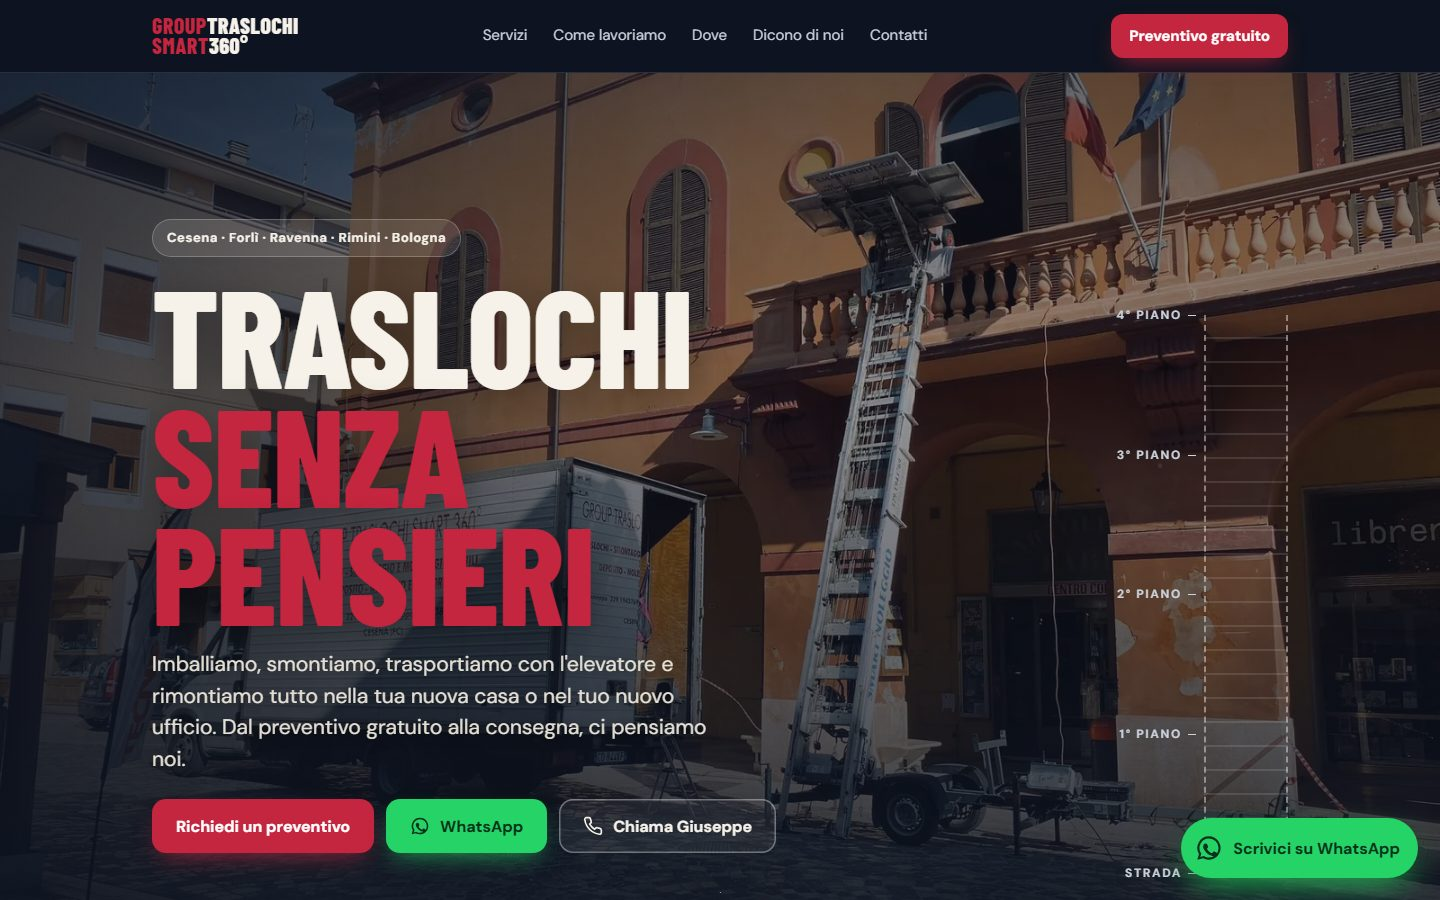
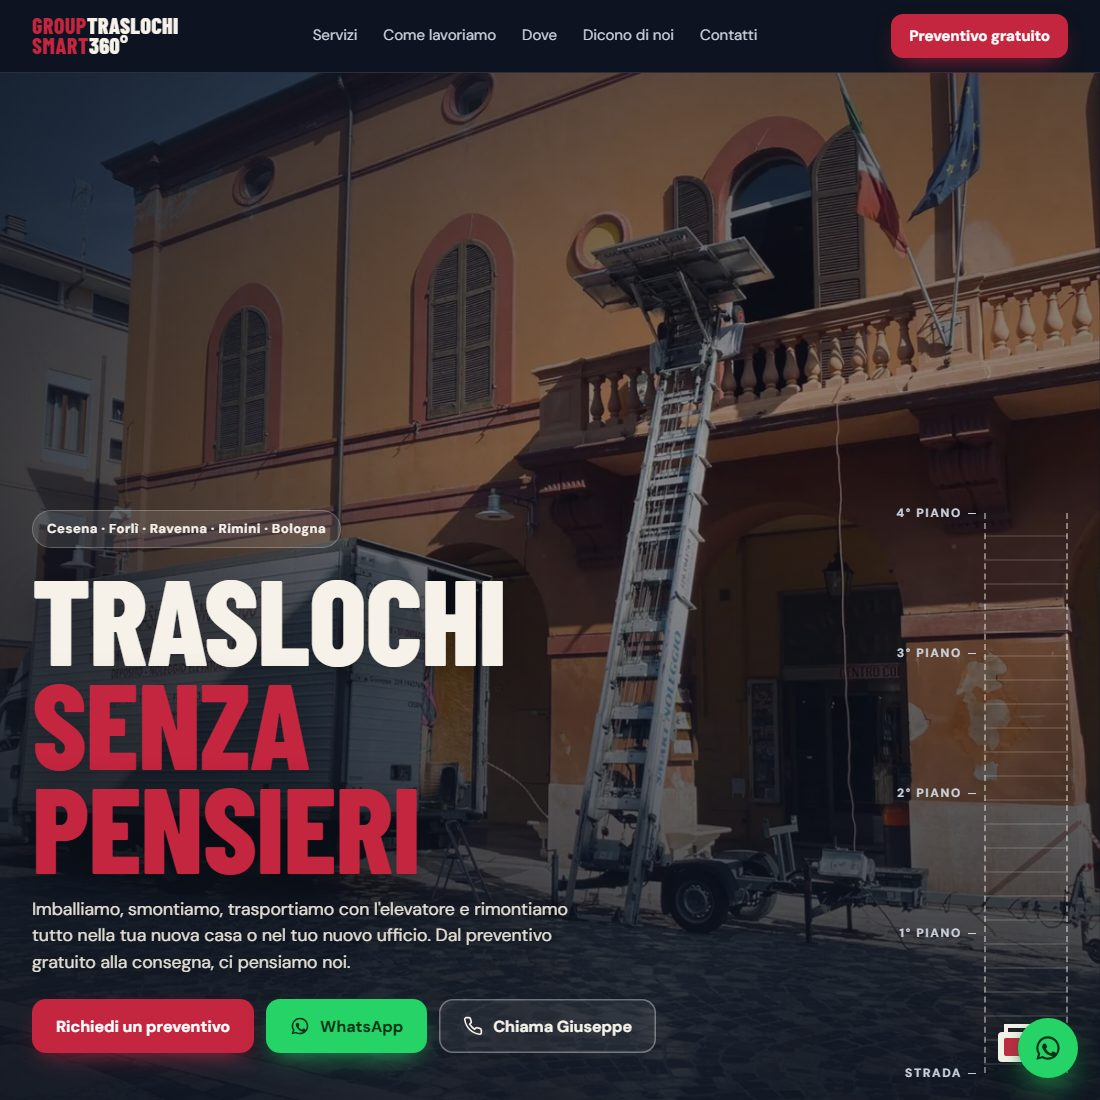
Smart360 card: shorter title and copy, square screenshot so it fits small laptop screens

diff --git a/src/data.ts b/src/data.ts
@@ -210,9 +210,9 @@ export const projects: Project[] = [
     status: { label: 'Beta • Android Closed Test', type: 'beta' },
   },
   {
-    title: 'Group Traslochi Smart360°',
+    title: 'Smart360°',
     badge: 'Client Work • Moving Company',
-    desc: 'Full website for a moving company in Romagna, rebuilt as a fast single static page: scroll-driven animations, free-quote form, one-tap WhatsApp and phone contact, local SEO for Cesena, Forlì, Ravenna, Rimini and Bologna. Design, implementation, cookie compliance, deployment and domain management.',
+    desc: 'Website for GroupTraslochiSmart360°, a moving company in Romagna. A fast single static page with scroll-driven animations, free-quote form, WhatsApp contact and local SEO. Design, build, deploy and domain management.',
     tech: ['HTML', 'CSS', 'JavaScript', 'Local SEO', 'Vercel'],
     category: 'product',
     live: 'https://www.grouptraslochismart360.it/',
